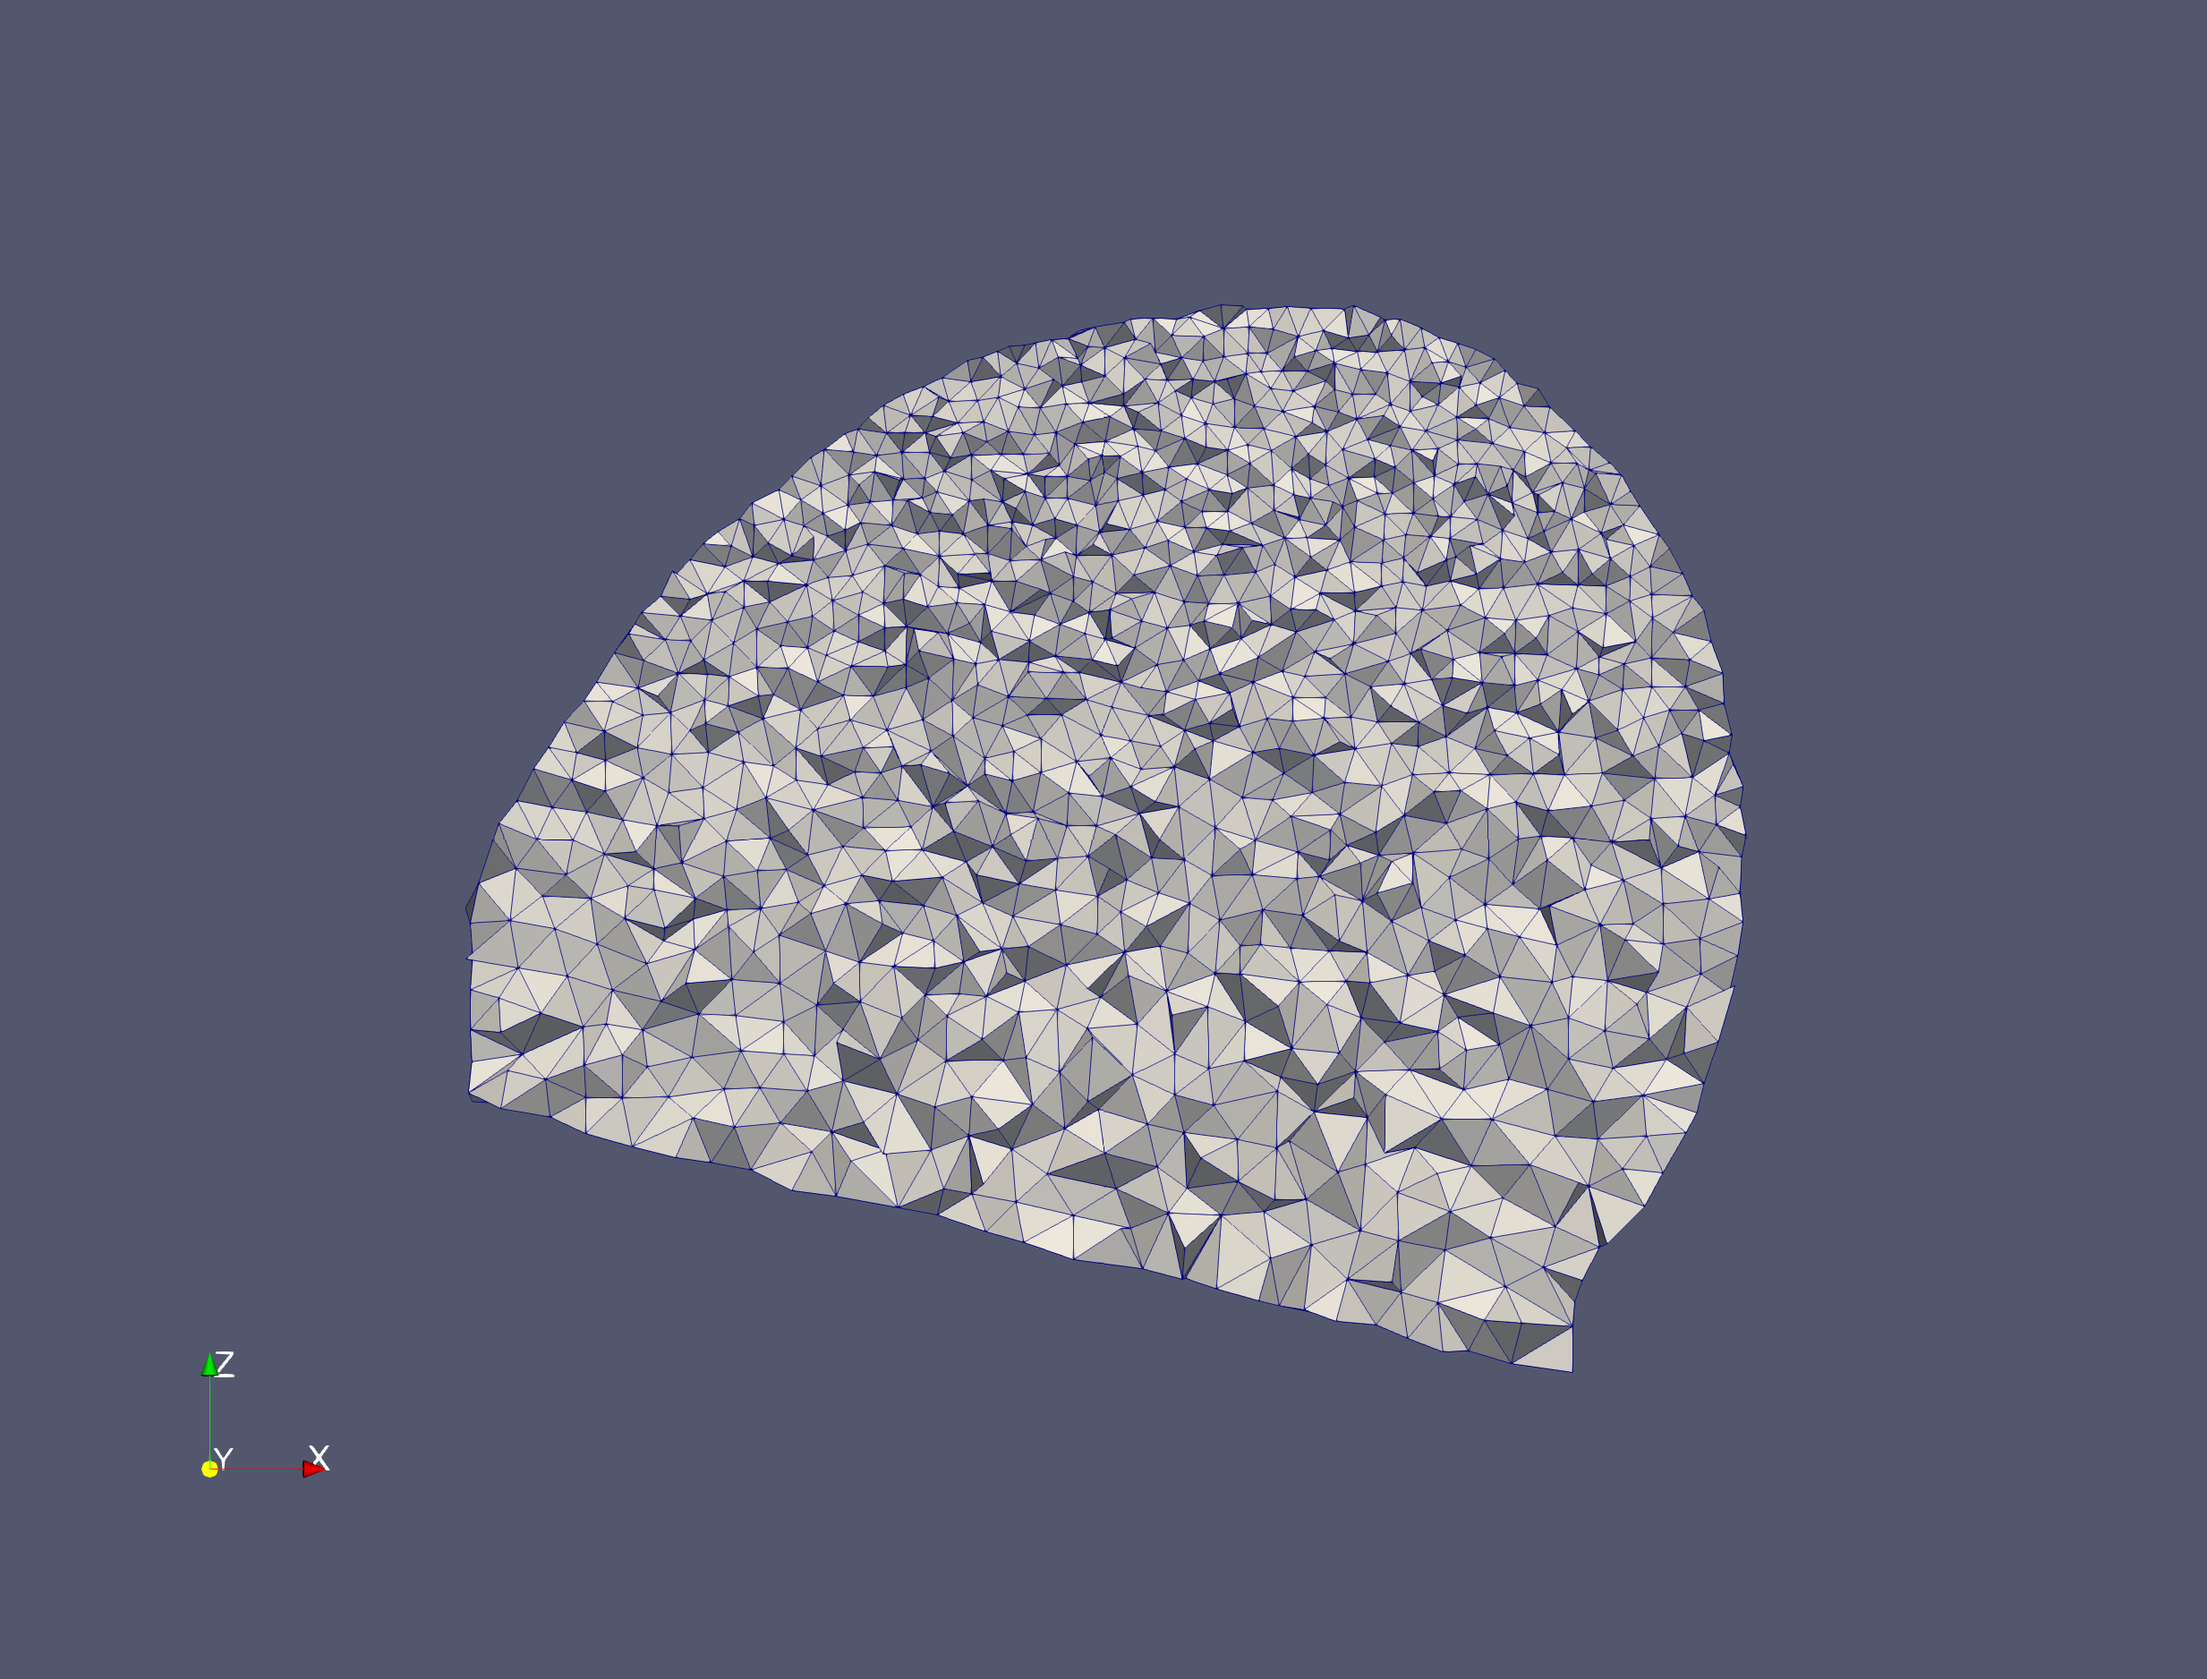
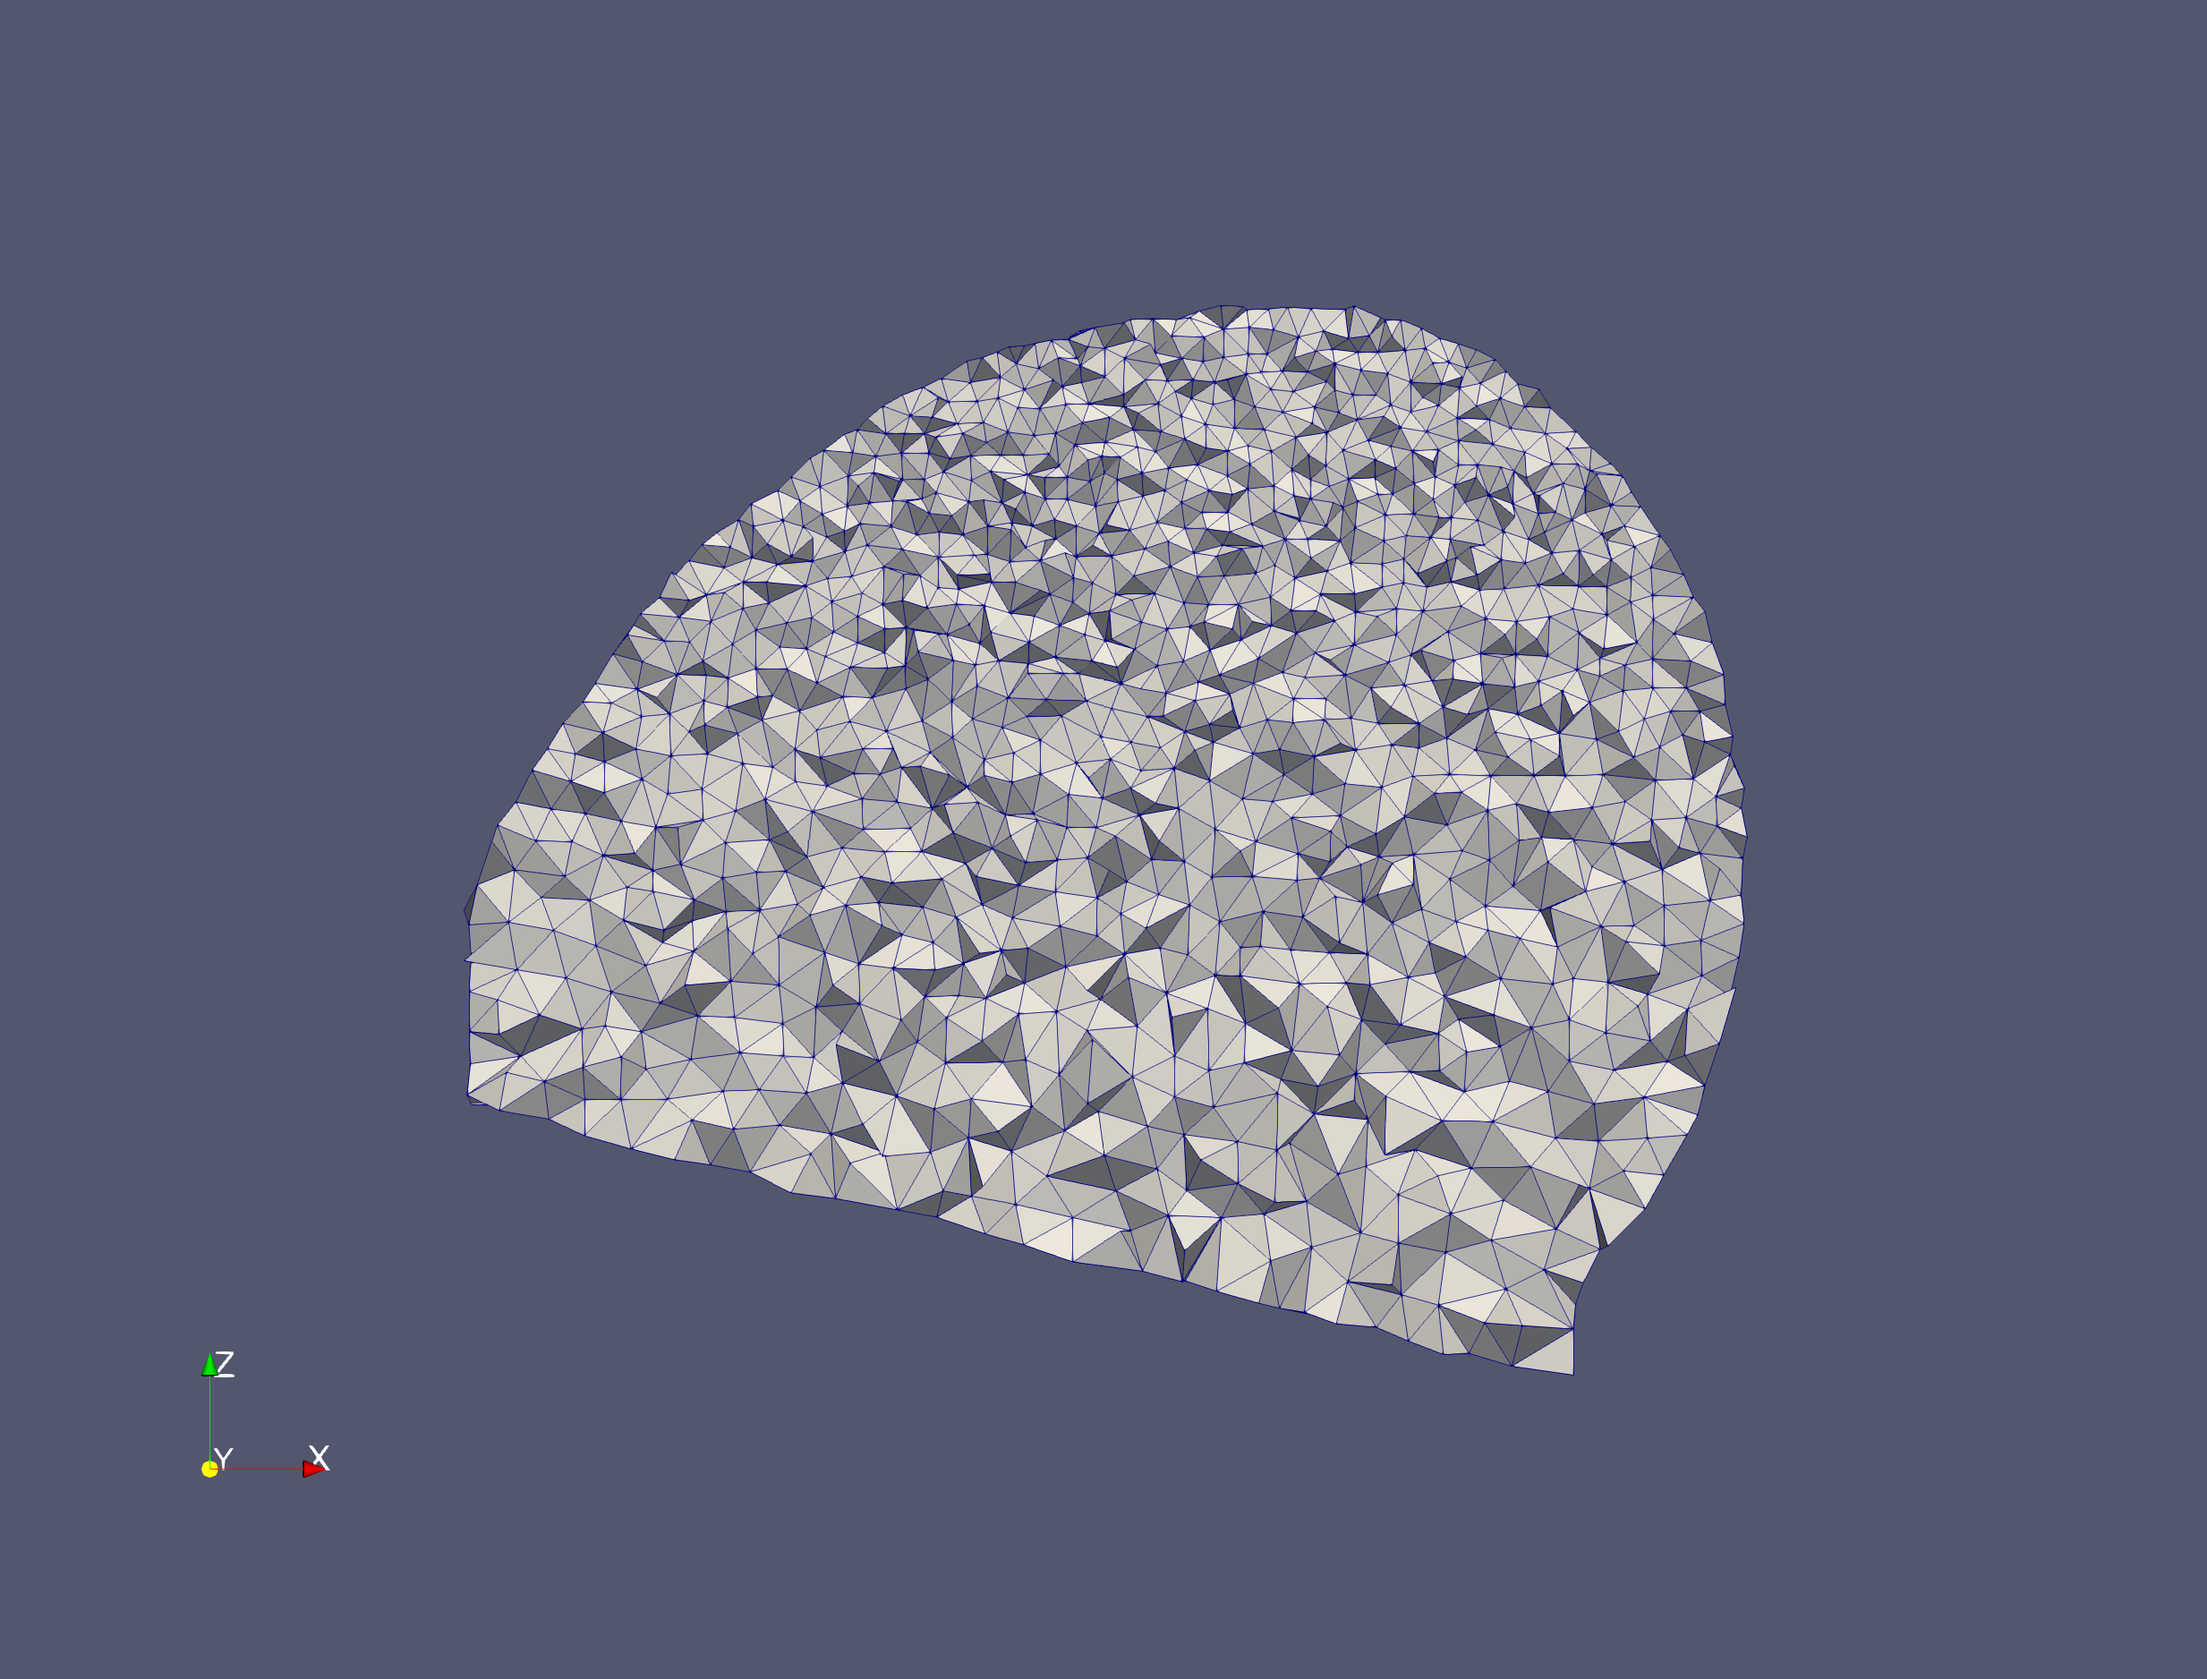
Depth and Planar refinement documentations

Changed region(s): [[0.2186, 0.1855, 0.7806, 0.8348]]

diff --git a/examples/refinements/figures/Sizing_fields.m b/examples/refinements/figures/Sizing_fields.m
@@ -2,6 +2,10 @@
 
 % needs iso2mesh
 V=readinr('../Input.inr');
+%scale points to mm, these values are given in .inr header
+vx=1;
+vy=1;
+vz=1;
 
 X=zeros(size(V,1),1);
 Y=zeros(size(V,2),1);
@@ -13,20 +17,15 @@ iSlice=54;
 [x,z]=find(squeeze(V(:,iSlice,:)));
 y=ones(size(x))*iSlice;
 
+x=x/vx;
+y=y/vy;
+z=z/vz;
+
 figure
 plot(x,z,'.');
 daspect([1,1,1])
 title('Slice through inr');
 %% Plot sizing field of planar refinement
-
-%scale points to mm, these values are given in .inr header
-vx=1;
-vy=1;
-vz=1;
-
-x=x/vx;
-y=y/vy;
-z=z/vz;
 
 upper_bound=max(z)*vx;
 
@@ -69,6 +68,45 @@ ylabel('z');
 
 % saveas(gcf,'5_SF1.png');
 
+%% Depth Refinement 
 
+fine_size=2;
+coarse_size=5;
+elem_fine_per=100;
+
+out=zeros(size(x));
+
+origin=[max(x)/2 max(z)/2];
+
+for iPoint = 1:size(x,1)
+    d_el=[x(iPoint),z(iPoint)]-origin;
+    d_per=sqrt((d_el(1)/origin(1))*(d_el(1)/origin(1)) + (d_el(2)/origin(2))*(d_el(2)/origin(2)));
+    
+    if (d_per >= 1 - elem_fine_per/100 )
+        
+        op=fine_size + (coarse_size - fine_size) * (1-d_per);
+        
+        if op < fine_size
+            op=fine_size;
+        end
+            out(iPoint)=op;
+    else
+        out(iPoint) = coarse_size;
+    end
+    
+    
+end
+
+scatter(x,z,20,out,'filled')
+colormap('summer')
+colorbar
+daspect([1,1,1]);
+caxis([fine_size coarse_size]);
+title(sprintf('Depth Sizing field %0.5g%% fine elements',elem_fine_per));
+xlabel('x')
+ylabel('z');
+
+
+% saveas(gcf,'2_SF1.png');
 
 

diff --git a/src/Sizing_fields.cpp b/src/Sizing_fields.cpp
@@ -152,12 +152,19 @@ FT Sizing_field::operator()(const Point &p, const int, const Index &) const
 
     if (distance_percent >= 1 - FT(fine_size_percentage) / 100)
     {
-      out = fine_size + (coarse_size - fine_size) * (1 - distance_percent);
+      double out_tmp = fine_size + (coarse_size - fine_size) * (1 - distance_percent);
+
+      //clamp sizes within range specified
+      if (out_tmp < fine_size)
+      {
+        out_tmp=fine_size;
+      }
+      out = out_tmp;
     }
 
     else
     {
-      out = fine_size;
+      out = coarse_size;
     }
   }
 

diff --git a/examples/refinements/readme.md b/examples/refinements/readme.md
@@ -50,28 +50,31 @@ The MESHER can then be called, and the and the denser regions are clearly visibl
 
 ![Mesh with electrode refinement](figures/1_Slice.png)
 
+### Electrode coordinates
+
+Prior to refinement, the electrode coordinates specified in `Elecs.txt` are scaled by the `VX VY VZ` parameters specified in the `.inr` file to obtain the final positions in **mm**. Therefore, either the electrode positions must be determined either in the `.inr` coordinate space, like the unit cube or brain examples, or they should be scaled prior to saving to the text file, as in the neonatal head mesh example. **NOTE** The output Mesh is in m, so electrode positions determined from this mesh should be converted to mm *and* scaled by `1/VX` etc.
+
 ## 2. Depth refinement
 
-As the sensitivity decreases with distance from the electrodes, less elements are required towards the centre of the volume. Therefore, as outlined [a methods paper](https://doi.org/10.1088/0967-3334/35/6/1095) it is possible to specify a linear decrease from the surface to the centre. This is particularly useful in applications like the brain or thorax where the electrodes are limited to the outside surface, and are a significant distance from the centre of the mesh. 
+As the sensitivity decreases with distance from the electrodes, less elements are required towards the centre of the volume. Therefore, as outlined [a methods paper](https://doi.org/10.1088/0967-3334/35/6/1095) it is possible to specify a linear decrease from the surface to the centre. This is particularly useful in applications like the brain or thorax where the electrodes are limited to the outside surface, and are a significant distance from the centre of the mesh.
 
-
-adasdsdasd
+The following parameters create a linear gradient from 5mm element size in the centre of the mesh to 2mm at the boundary.
 
 ```c++
-elements_with_fine_sizing_field_percentage = 50.000
-cell_fine_size_mm = 5.000
+depth_refinement = 1
+elements_with_fine_sizing_field_percentage = 100.000
+cell_fine_size_mm = 2.000
 cell_coarse_size_mm = 5.000
 ```
-
-The mesher can then be called:
 
 ```bash
 ../../bin/mesher -i input.inr -e Elecs.txt -p Params_2.txt -o 2_Depth
 ```
 
-The gradient 
+![Mesh with depth refinement](figures/2_SF1_Slice.png) ![Mesh with depth refinement](figures/2_SF1.png)
+The gradient is clearly visible inside the mesh and the resulting sizing field can also be plotted using `figures\Sizing_fields.m`, to better visualise the effects the different parameters. The gradient can also be overwritten at the centre to a fixed value of `cell_coarse_size_mm` if a less gradual gradient is required. Setting `elements_with_fine_sizing_field_percentage = 50.000` creates a sphere of fixed element size at the centre.
 
-![Mesh with depth refinement](figures/2_Slice.png)
+![Mesh with depth refinement](figures/2_SF2_Slice.png) ![Mesh with depth refinement](figures/2_SF2.png)
 
 ## 3. Sphere refinement
 

diff --git a/examples/refinements/output/readme.md b/examples/refinements/output/readme.md
@@ -1,0 +1,1 @@
+# Refinement output
